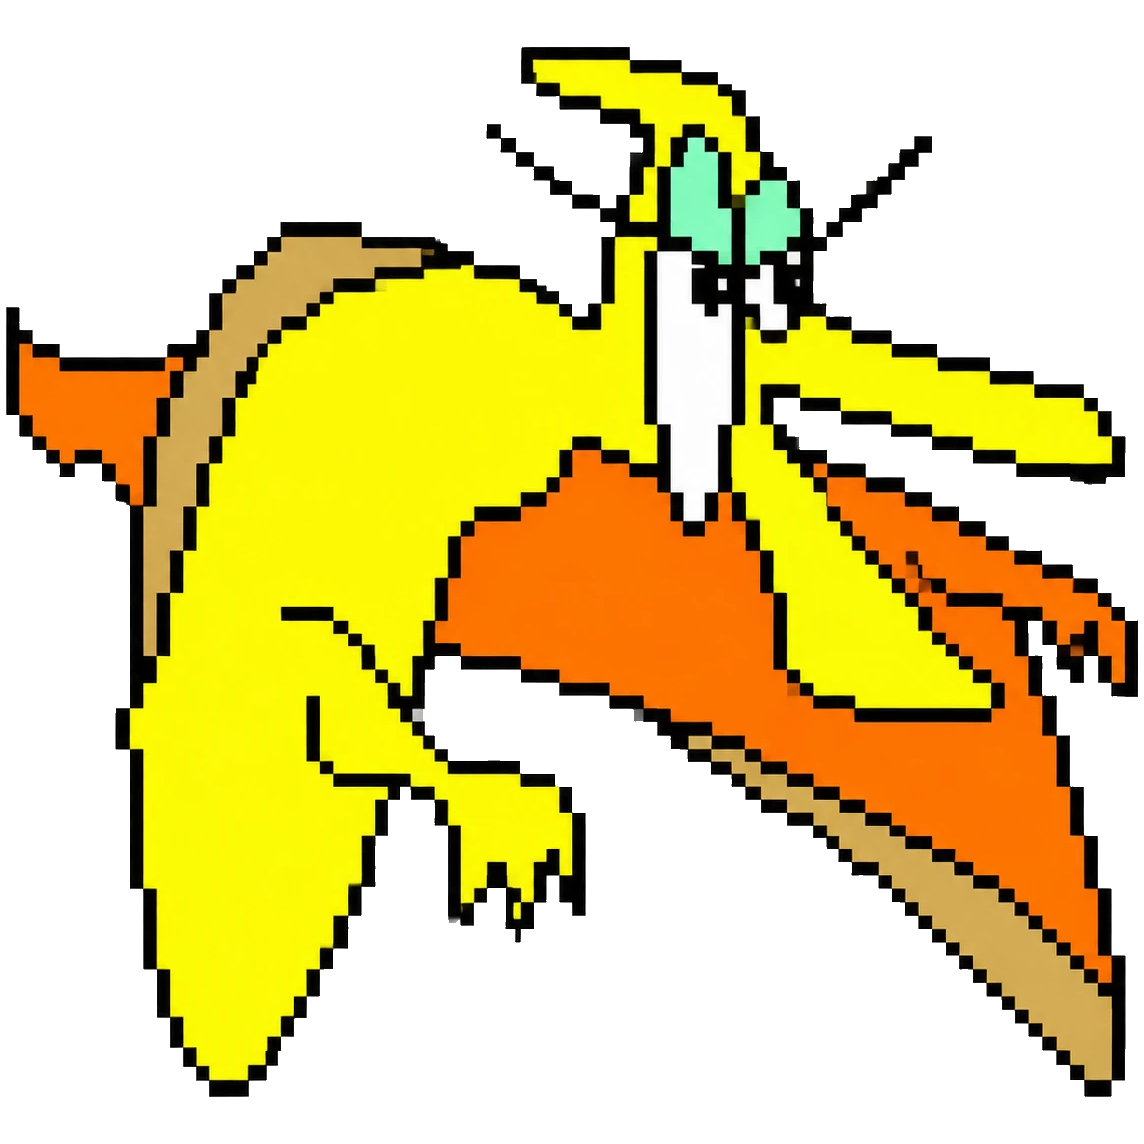
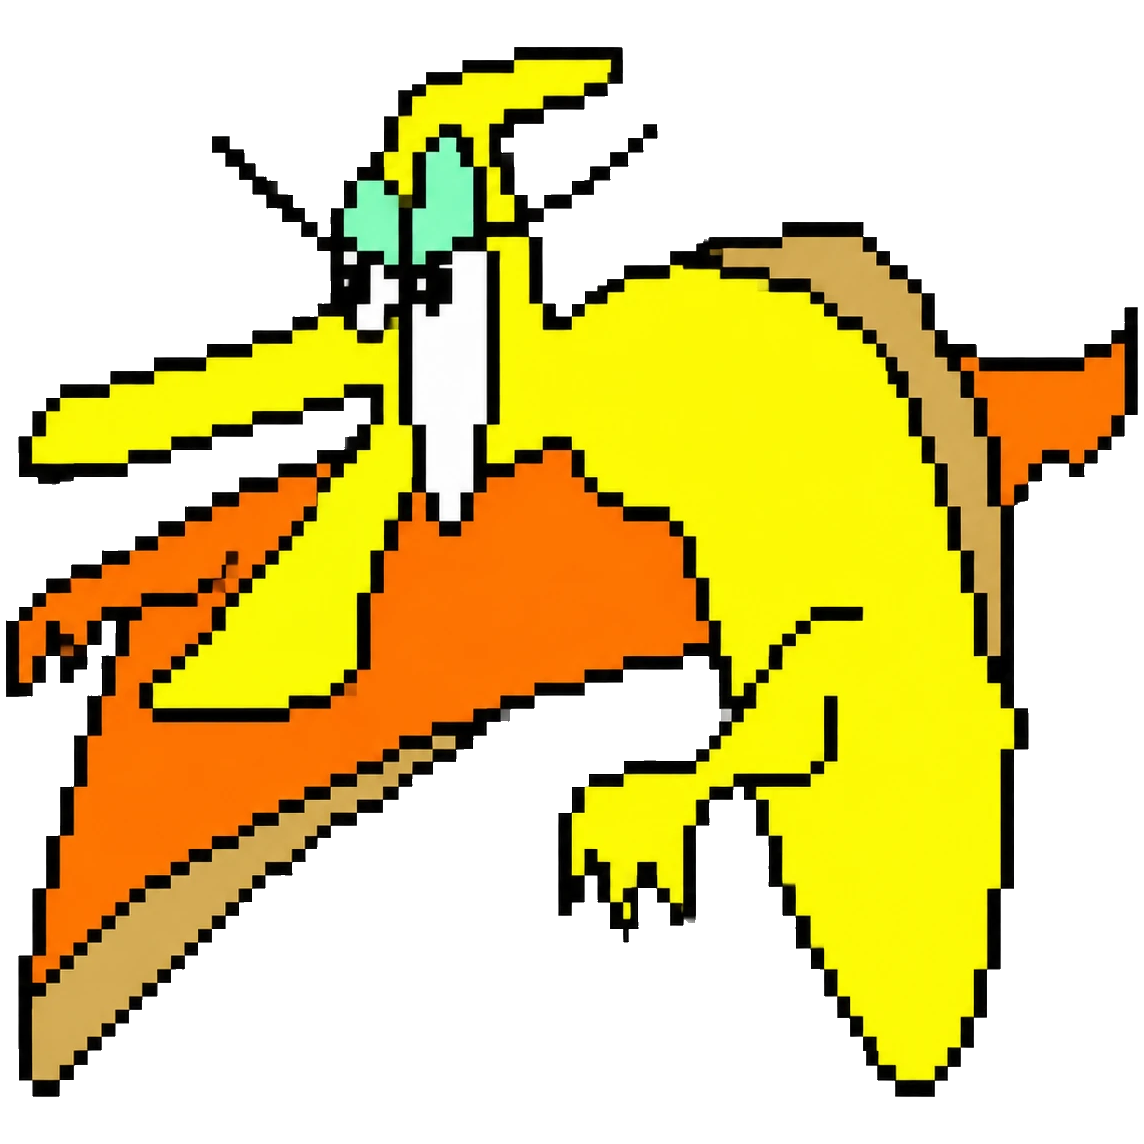
DINORENNY RUN: ニックネーム制ランキング(CHARAMARLのrun-score API連携・TOP20順位表・ベスト更新で自動登録)を追加、PUTTIを保存画像どおり左向きに修正、ゲームオーバー操作をキャンバス下のパネルへ

diff --git a/run.html b/run.html
@@ -108,6 +108,31 @@
   footer{margin-top:18px;text-align:center;font-size:11px;font-weight:800;color:#fff;text-shadow:1px 1px 0 var(--ink);}
   footer a{color:#fff;}
 
+  /* ランキング */
+  .rank-box{display:flex;flex-direction:column;align-items:center;gap:6px;pointer-events:auto;}
+  .rank-form{display:flex;gap:6px;align-items:center;}
+  .rank-form input{
+    width:min(46vw,170px);min-height:var(--tap-min);padding:6px 12px;border:3px solid var(--ink);border-radius:999px;
+    font-family:inherit;font-weight:900;font-size:15px;background:#fff;color:var(--ink);
+  }
+  .rank-msg{font-weight:900;font-size:clamp(12px,3.6vw,15px);background:#fff;border:3px solid var(--ink);border-radius:999px;padding:3px 14px;box-shadow:3px 3px 0 var(--ink);}
+  .rank-msg b{color:var(--accent-2);}
+  .btn.sm{padding:8px 16px;font-size:14px;}
+  .rank-menu{background:#fff;border-radius:22px 22px 0 0;padding:18px 18px 28px;width:min(480px,100%);max-height:85vh;overflow:auto;}
+  @media(min-width:600px){ .rank-menu{border-radius:22px;border:3px solid var(--ink);} }
+  .rank-list{list-style:none;display:flex;flex-direction:column;gap:4px;margin:10px 0;}
+  .rank-list li{display:grid;grid-template-columns:38px 1fr auto;align-items:center;gap:8px;padding:6px 10px;border-radius:12px;font-weight:900;font-size:15px;}
+  .rank-list li.me{background:#FFF3B0;border:2px solid var(--ink);}
+  .rank-list li:nth-child(1) .rk{color:#D4A200;} .rank-list li:nth-child(2) .rk{color:#8A8A8A;} .rank-list li:nth-child(3) .rk{color:#B4632B;}
+  .rank-list .rk{font-size:14px;} .rank-list .nm{overflow:hidden;text-overflow:ellipsis;white-space:nowrap;}
+  .rank-list .sc{color:var(--accent-2);}
+  .rank-foot{text-align:center;font-size:12px;font-weight:800;color:var(--ink-soft);}
+  .over-panel{display:flex;flex-direction:column;align-items:center;gap:10px;margin-top:14px;}
+  .over-panel[hidden],.rank-form[hidden],.rank-box[hidden],.btn[hidden],.rank-msg[hidden]{display:none;}
+  .gameover{gap:6px;}
+  .gameover .result{padding:4px 18px;}
+  .gameover .result .big{font-size:clamp(24px,7vw,40px);}
+  .gameover .ttl{font-size:clamp(18px,5.5vw,34px);}
   .share-overlay{position:fixed;inset:0;background:rgba(0,0,0,.45);z-index:700;display:none;align-items:flex-end;justify-content:center;}
   .share-overlay.open{display:flex;}
   .share-menu{background:#fff;border-radius:22px 22px 0 0;padding:20px 22px 30px;width:min(480px,100%);}
@@ -138,15 +163,29 @@
       <div class="ttl">DINORENNY <span>RUN</span></div>
       <div class="sub">タップ / スペースで スタート！</div>
       <button class="btn main" id="startBtn" type="button">▶ はしる！</button>
+      <button class="btn sm" id="rankBtnTitle" type="button">🏆 ランキング</button>
     </div>
 
     <div class="overlay gameover hide" id="overOv">
       <div class="ttl">GAME OVER</div>
       <div class="result num">SCORE<span class="big" id="finalScore">0</span><span id="newHi" class="new" hidden>NEW RECORD!</span></div>
-      <div class="row">
-        <button class="btn main" id="retryBtn" type="button">↻ もう一回</button>
-        <button class="btn" id="shareBtn" type="button">🚀 シェア</button>
+      <div class="sub">タップでもう一回</div>
+    </div>
+  </div>
+
+  <!-- ゲームオーバー後の操作パネル（キャンバスの外に出してスマホでもはみ出さない） -->
+  <div class="over-panel" id="overPanel" hidden>
+    <div class="rank-box" id="rankBox">
+      <div class="rank-form" id="rankForm">
+        <input id="rankName" type="text" maxlength="12" placeholder="ニックネーム" autocomplete="nickname" enterkeyhint="done">
+        <button class="btn sm" id="rankSubmit" type="button">🏆 登録</button>
       </div>
+      <div class="rank-msg num" id="rankMsg" hidden></div>
+    </div>
+    <div class="row">
+      <button class="btn main" id="retryBtn" type="button">↻ もう一回</button>
+      <button class="btn" id="shareBtn" type="button">🚀 シェア</button>
+      <button class="btn" id="rankBtnOver" type="button">🏆 順位表</button>
     </div>
   </div>
 
@@ -160,6 +199,13 @@
   <footer id="credit">© DinoRenny</footer>
 </div>
 
+<div class="share-overlay" id="rankOverlay">
+  <div class="rank-menu">
+    <div class="share-title">🏆 RANKING <span id="rankChar"></span></div>
+    <ol class="rank-list" id="rankList"><li><span class="rk">…</span><span class="nm">読み込み中</span><span></span></li></ol>
+    <div class="rank-foot" id="rankFoot"></div>
+  </div>
+</div>
 <div class="share-overlay" id="shareOverlay">
   <div class="share-menu">
     <div class="share-title">シェアする</div>
@@ -187,6 +233,8 @@
   let W = 720; const H = 300, GROUND = 248;   // スマホでは W を狭めて縦長に
   const SPRITE_SRC = CHAR.sprite;
   const HI_KEY = 'dr_run_hi_' + CHAR.name;
+  // ランキングAPI(CHARAMARLのVercel/Upstash Redis)。空文字にするとランキング機能ごと非表示
+  const RANK_API = 'https://charamarl.com/api/run-score';
   const creditEl = document.getElementById('credit'); if (creditEl) creditEl.textContent = '© DinoRenny / ' + CHAR.credit;
   // 100点ごとに切り替わる世界の色（DinoRennyパレット）
   const WORLDS = [
@@ -276,7 +324,7 @@
     S.state = 'play'; S.t = 0; S.speed = 6; S.dist = 0; S.score = 0; S.worldIdx = 0; S.worldMix = 0; S.shake = 0;
     dino.y = GROUND; dino.vy = 0; dino.duck = false; dino.onGround = true; dino.squash = 0;
     resetWorld();
-    startOv.classList.add('hide'); overOv.classList.add('hide');
+    startOv.classList.add('hide'); overOv.classList.add('hide'); document.getElementById('overPanel').hidden = true;
     setPageColor(WORLDS[0].page);
     beep(660, .12, 'square', .06, 300);
   }
@@ -289,7 +337,8 @@
     const isNew = S.score > S.hi;
     if (isNew){ S.hi = S.score; try{ localStorage.setItem(HI_KEY, S.hi); }catch(e){} scoreHiEl.textContent = S.hi; }
     newHiEl.hidden = !isNew;
-    setTimeout(() => overOv.classList.remove('hide'), 350);
+    setTimeout(() => { overOv.classList.remove('hide'); document.getElementById('overPanel').hidden = false; }, 350);
+    onGameOverRank(S.score, isNew);
   }
   function jump(){
     if (S.state !== 'play') return;
@@ -557,6 +606,65 @@
   // テスト用フック
   window.DRRUN = { S, dino, step, draw, start, jump, get obstacles(){ return obstacles; } };
 
+  // ================= 🏆 ランキング =================
+  const NAME_KEY = 'dr_run_name', PID_KEY = 'dr_run_pid';
+  let pid = '', savedName = '';
+  try {
+    pid = localStorage.getItem(PID_KEY) || '';
+    if (!/^[a-f0-9]{16,32}$/.test(pid)){ pid = Array.from(crypto.getRandomValues(new Uint8Array(12)), b => b.toString(16).padStart(2,'0')).join(''); localStorage.setItem(PID_KEY, pid); }
+    savedName = localStorage.getItem(NAME_KEY) || '';
+  } catch(e){}
+  const rankBox = document.getElementById('rankBox'), rankForm = document.getElementById('rankForm');
+  const rankName = document.getElementById('rankName'), rankMsg = document.getElementById('rankMsg');
+  const rankOverlay = document.getElementById('rankOverlay'), rankList = document.getElementById('rankList'), rankFoot = document.getElementById('rankFoot');
+  document.getElementById('rankChar').textContent = CHAR.name;
+  rankName.value = savedName;
+  if (!RANK_API){ rankBox.hidden = true; document.getElementById('rankBtnTitle').hidden = true; document.getElementById('rankBtnOver').hidden = true; }
+
+  function showMsg(html){ rankMsg.innerHTML = html; rankMsg.hidden = false; }
+  async function submitScore(score){
+    const name = rankName.value.trim().slice(0, 12);
+    if (!name){ rankName.focus(); return; }
+    if (name !== savedName){ savedName = name; try{ localStorage.setItem(NAME_KEY, name); }catch(e){} }
+    showMsg('登録中…'); rankForm.hidden = true;
+    try{
+      const r = await fetch(RANK_API, { method:'POST', headers:{ 'Content-Type':'application/json' }, body: JSON.stringify({ char: CHAR.name, pid, name, score }) });
+      const d = await r.json();
+      if (!r.ok) throw new Error(d.error || r.status);
+      showMsg(`${esc(name)} さん：<b>${d.rank}位</b> / ${d.total}人中（ベスト ${d.best}）`);
+      renderBoard(d.top, d.total, { rank: d.rank, best: d.best });
+    }catch(e){ showMsg('登録できませんでした'); rankForm.hidden = false; }
+  }
+  function onGameOverRank(score, isNew){
+    if (!RANK_API){ rankBox.hidden = true; return; }
+    rankBox.hidden = false; rankMsg.hidden = true; rankForm.hidden = false;
+    if (score < 1){ rankBox.hidden = true; return; }
+    if (savedName && isNew) submitScore(score);                       // 名前登録済みならベスト更新時に自動登録
+    else if (savedName){ rankForm.hidden = true; showMsg('ベスト更新でランキングに登録されます'); }
+  }
+  document.getElementById('rankSubmit').addEventListener('click', () => submitScore(S.score));
+  rankName.addEventListener('keydown', e => { e.stopPropagation(); if (e.key === 'Enter'){ e.preventDefault(); submitScore(S.score); } });   // 入力中のSPACEでジャンプしない
+  rankName.addEventListener('keyup', e => e.stopPropagation());
+
+  function renderBoard(top, total, me){
+    rankList.innerHTML = (top && top.length) ? top.map(t => `<li${t.me ? ' class="me"' : ''}><span class="rk num">${t.rank <= 3 ? ['🥇','🥈','🥉'][t.rank-1] : t.rank + '位'}</span><span class="nm">${esc(t.name)}</span><span class="sc num">${t.score}</span></li>`).join('')
+      : '<li><span class="rk">—</span><span class="nm">まだ登録がありません</span><span></span></li>';
+    rankFoot.textContent = (me && me.rank ? `あなた：${me.rank}位（ベスト ${me.best}）｜` : '') + `登録 ${total || 0}人`;
+  }
+  function esc(s){ return String(s).replace(/[&<>"']/g, c => ({'&':'&amp;','<':'&lt;','>':'&gt;','"':'&quot;',"'":'&#39;'}[c])); }
+  async function openBoard(){
+    rankOverlay.classList.add('open');
+    try{
+      const r = await fetch(`${RANK_API}?char=${encodeURIComponent(CHAR.name)}&pid=${pid}`);
+      const d = await r.json();
+      renderBoard(d.top, d.total, d.me);
+    }catch(e){ rankList.innerHTML = '<li><span class="rk">!</span><span class="nm">読み込めませんでした</span><span></span></li>'; rankFoot.textContent = ''; }
+  }
+  document.getElementById('rankBtnTitle').addEventListener('click', openBoard);
+  document.getElementById('rankBtnOver').addEventListener('click', openBoard);
+  rankOverlay.addEventListener('click', e => { if (e.target === rankOverlay) rankOverlay.classList.remove('open'); });
+  window.addEventListener('keydown', e => { if (e.code === 'Space' && rankOverlay.classList.contains('open')) e.stopImmediatePropagation(); }, true);
+
   // ================= 🚀 シェア =================
   const shareOverlay = document.getElementById('shareOverlay');
   document.getElementById('shareBtn').addEventListener('click', () => {
@@ -567,7 +675,8 @@
   shareOverlay.addEventListener('click', e => { if (e.target === shareOverlay) shareOverlay.classList.remove('open'); });
   document.querySelectorAll('.share-opt').forEach(btn => btn.addEventListener('click', async () => {
     const url = location.origin + location.pathname;
-    const text = `DINORENNY RUN で ${S.score} 点！ #DinoRenny #${CHAR.name}`;
+    const m = rankMsg.hidden ? null : rankMsg.textContent.match(/(\d+)位/);
+    const text = `DINORENNY RUN で ${S.score} 点${m ? `（${m[1]}位）` : ''}！ #DinoRenny #${CHAR.name}`;
     const kind = btn.dataset.sh;
     if (kind === 'x') window.open('https://twitter.com/intent/tweet?text=' + encodeURIComponent(text) + '&url=' + encodeURIComponent(url), '_blank');
     else if (kind === 'line') window.open('https://social-plugins.line.me/lineit/share?url=' + encodeURIComponent(url), '_blank');
